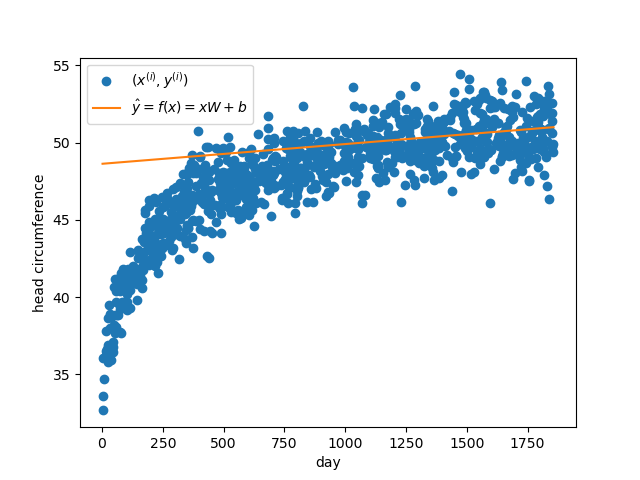
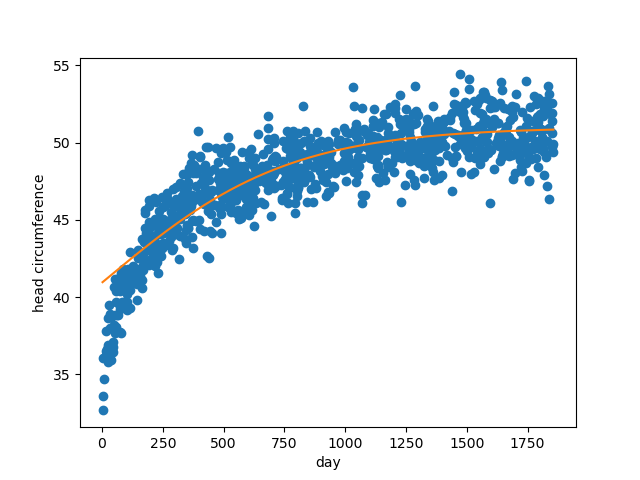
possible c solution

diff --git a/1/c.py b/1/c.py
@@ -20,15 +20,14 @@ class LinearRegressionModel:
         self.b = torch.tensor([[0.0]], requires_grad=True)
         
     def f(self, x):
-        z = x @ self.W + self.b
-        return 20 * (1 / (1 + torch.exp(-z))) + 31
+        return 20 * torch.nn.Sigmoid()(x @ self.W + self.b) + 31
 
     def loss(self, x, y):
         return torch.mean(torch.square(self.f(x) - y))
 
 
 model = LinearRegressionModel()
-optimizer = torch.optim.SGD([model.W, model.b], 0.0001)
+optimizer = torch.optim.SGD([model.W, model.b], 0.000_000_1)
 for epoch in range(1_000_000):
     model.loss(x_train, y_train).backward()
     optimizer.step()
@@ -39,11 +38,15 @@ for epoch in range(1_000_000):
 # Print model variables and loss
 print("W = %s, b = %s, loss = %s" % (model.W, model.b, model.loss(x_train, y_train)))
 
+steps = 2000
+x = torch.linspace(torch.min(x_train), torch.max(x_train), steps).reshape(-1, 1)
+y = model.f(x).detach()
+
+print(x);print(y)
+
 # Visualize result
 plt.plot(x_train, y_train, 'o', label='$(x^{(i)},y^{(i)})$')
 plt.xlabel('day')
 plt.ylabel('head circumference')
-x = torch.tensor([[torch.min(x_train)], [torch.max(x_train)]])
-plt.plot(x_train, model.f(x_train).detach(), label='$\\hat y = f(x) = xW+b$')
-plt.legend()
-plt.show()
+plt.plot(x, y, label='$\\hat y = f(x) = xW+b$')
+plt.savefig("c.png")

diff --git a/1/b.py b/1/b.py
@@ -30,7 +30,7 @@ class LinearRegressionModel:
 
 model = LinearRegressionModel()
 optimizer = torch.optim.SGD([model.W, model.b], 0.0001)
-for epoch in range(1_000_000):
+for epoch in range(1_000):
     model.loss(x_train, y_train).backward()
     optimizer.step()
     optimizer.zero_grad()
@@ -44,11 +44,11 @@ print("W = %s, b = %s, loss = %s" % (model.W, model.b, model.loss(x_train, y_tra
 ax = plt.axes(projection='3d')
 ax.scatter3D(length_data, weight_data, day_data)
 
-a = np.linspace(torch.min(length_data), torch.max(length_data), 2)
-b = np.linspace(torch.min(weight_data), torch.max(weight_data), 2)
+a = torch.linspace(torch.min(length_data), torch.max(length_data), 2)
+b = torch.linspace(torch.min(weight_data), torch.max(weight_data), 2)
 x, y = np.meshgrid(a, b)
 z = torch.tensor([
-    [torch.min(length_data), torch.min(weight_data)], 
+    [torch.min(length_data), torch.min(weight_data)],
     [torch.max(length_data), torch.max(weight_data)]
 ])
 
